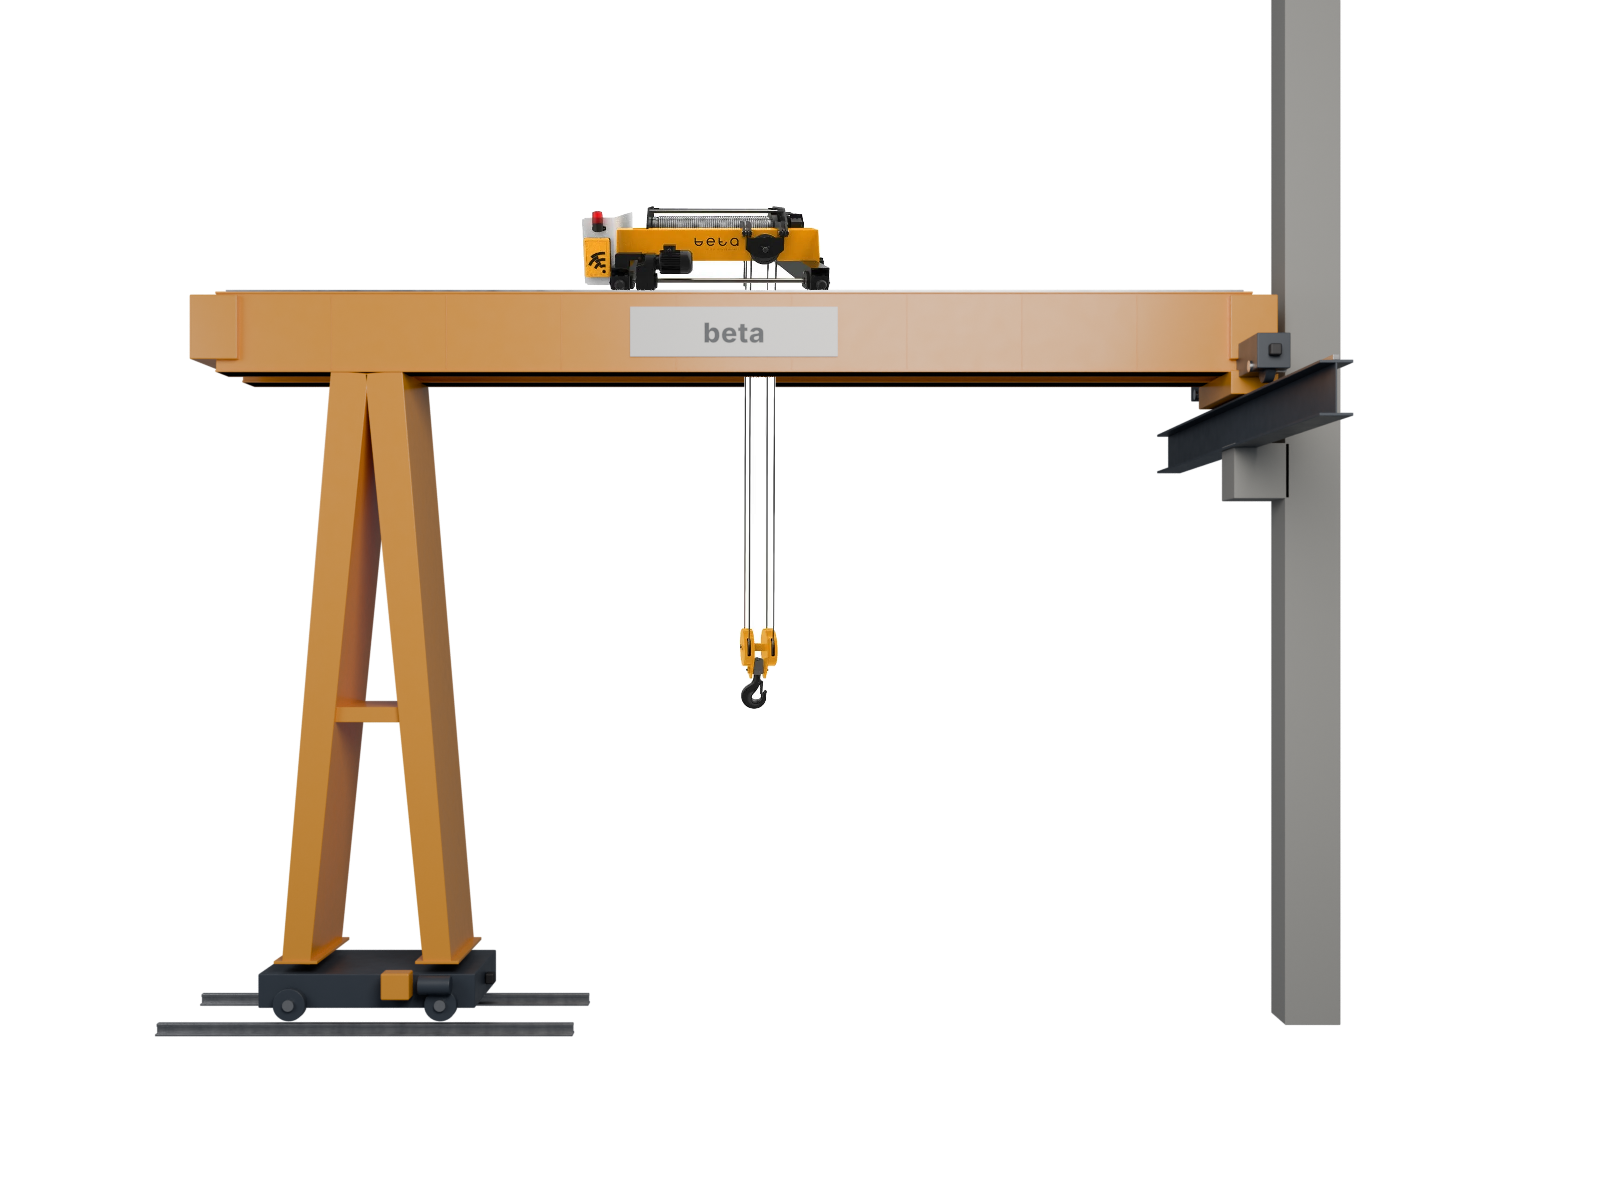
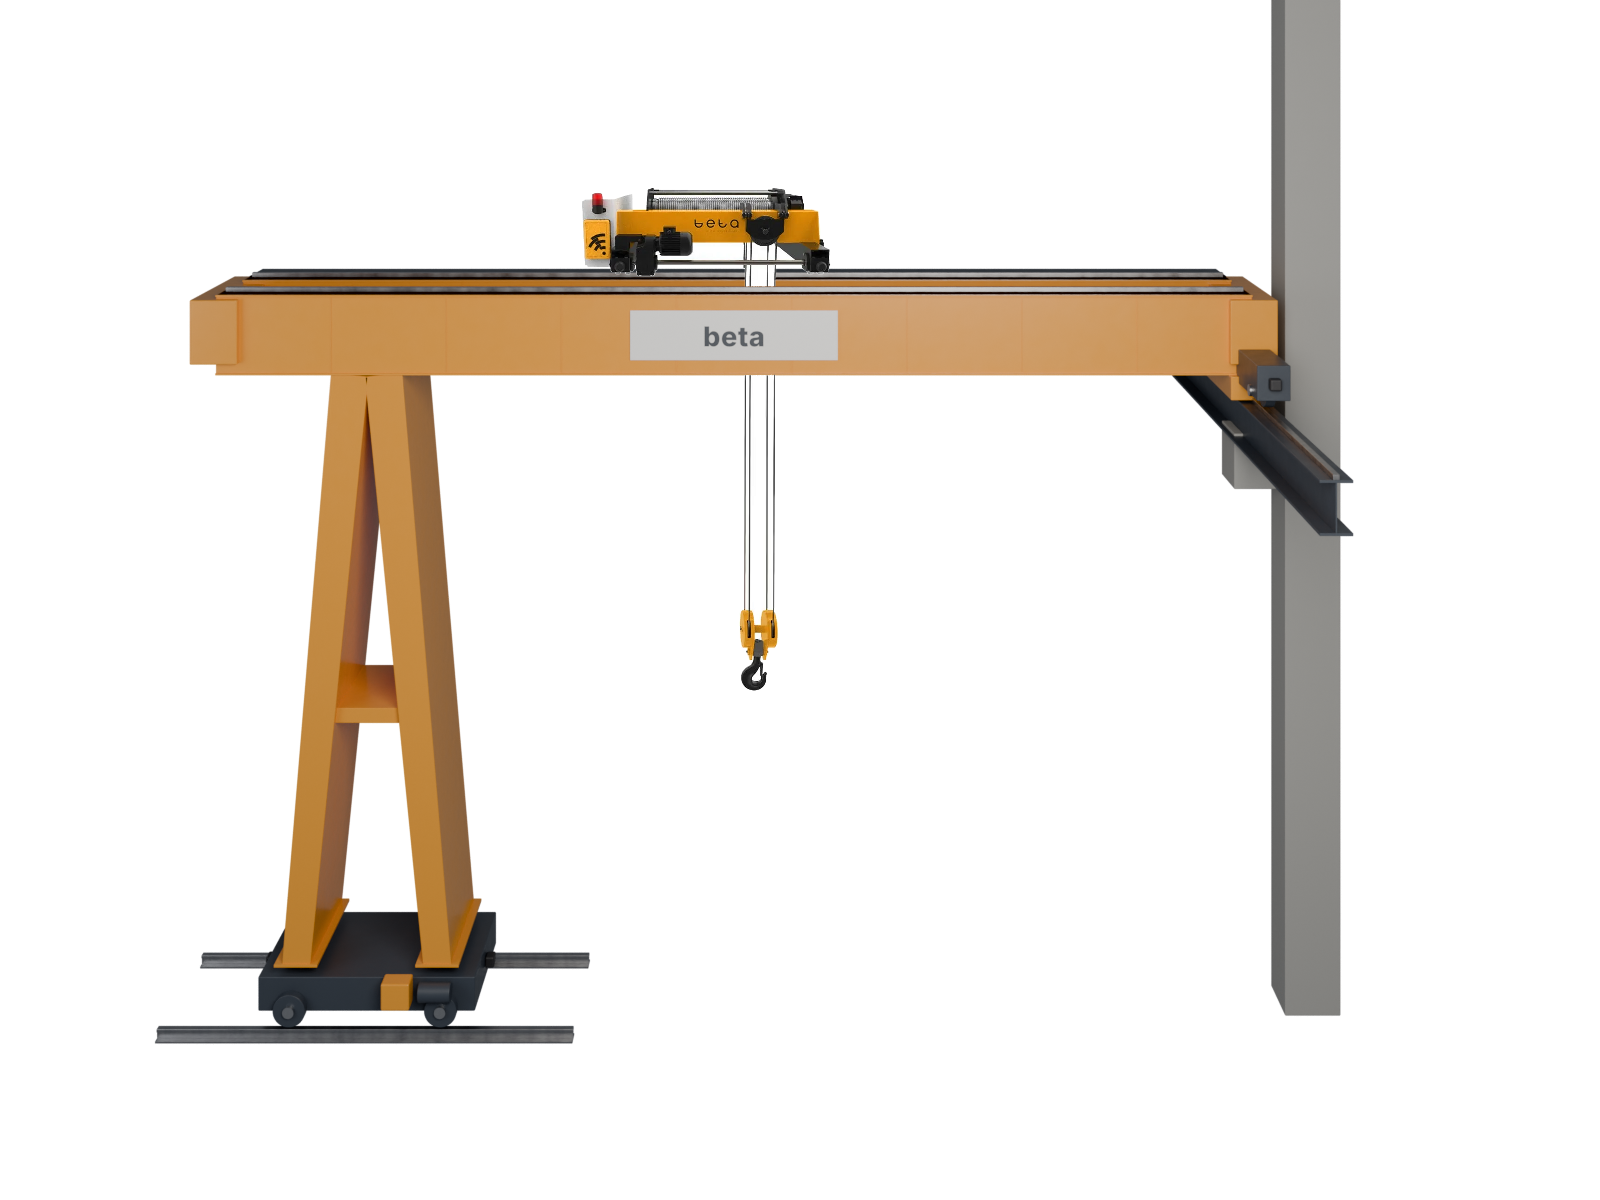
Sahne açıları vinç fotoğraflarının çekim açısına eşitlendi
Claude-Session: https://claude.ai/code/session_01BwJWWo6Yo4AefWjfCSnerb

diff --git a/kaynak/render_vincler.py b/kaynak/render_vincler.py
@@ -576,18 +576,19 @@ def ortam(M, **kw):
 
 
 def foto_vinc(dosya, nesne, nokta, yukseklik, capa=0.5, dikey=0.0, arkasinda=(), halat=None,
-              eksen=(1, 0, 0)):
+              eksen=None):
     """Gerçek ürün fotoğrafını sahnedeki bir düzleme perspektifli olarak yerleştir.
 
-    Fotoğraf, `nesne` yerel koordinatlarında `eksen` (yatay) ve Z (düşey) doğrultularının
-    oluşturduğu düzleme gerçek ölçüsünde (yükseklik m) oturtulur; dört köşesi kameraya
-    izdüşürülüp homografi ile bükülür.
+    Fotoğraf gerçek ölçüsünde (yükseklik m) bir düzleme oturtulur; dört köşesi kameraya
+    izdüşürülüp homografi ile bükülür. eksen=None: düzlem kameraya diktir (fotoğraf kendi
+    perspektifini taşır; sahne kamerası fotoğrafın çekim açısına göre ayarlanır).
+    eksen verilirse düzlem `nesne` yerel `eksen` (yatay) ve Z doğrultularındadır.
     nokta: fotoğrafın yatayda `capa`, düşeyde `dikey` oranına (0 = üst kenar) denk gelen nokta,
     arkasinda: fotoğrafın önünde kalacak nesnelerin ad önekleri (ör. ön kiriş),
     halat: (ust_oran, alt_oran, kanca_z) - yalnız halat bandını uzatıp kancayı kanca_z'ye indirir.
     """
     FOTOLAR.append((os.path.join(FOTO_KLASOR, dosya), nesne, Vector(nokta), yukseklik, capa, dikey,
-                    tuple(arkasinda), halat, Vector(eksen).normalized()))
+                    tuple(arkasinda), halat, None if eksen is None else Vector(eksen).normalized()))
 
 
 def _homografi(hedef, kaynak):
@@ -659,10 +660,17 @@ def fotolari_ekle(cikti):
             yuk = yuk + ek_m
             dikey = ust_m / yuk
         mw = nesne.matrix_world
-        z = Vector((0, 0, 1))
+        A = mw @ nokta
+        if eksen is None:
+            cm = sc.camera.matrix_world.to_3x3()
+            eksen = (cm @ Vector((1, 0, 0))).normalized()
+            z = (cm @ Vector((0, 1, 0))).normalized()
+        else:
+            eksen = (mw.to_3x3() @ eksen).normalized()
+            z = Vector((0, 0, 1))
 
         def kose(fx, fy, u=eksen):
-            return ekran(mw @ (nokta + u * ((fx - capa) * gen) + z * ((dikey - fy) * yuk)))
+            return ekran(A + u * ((fx - capa) * gen) + z * ((dikey - fy) * yuk))
 
         # fotoğraf ayna görüntüsü olmasın: sol kenar ekranda solda kalsın
         if kose(0, dikey)[0] > kose(1, dikey)[0]:
@@ -694,7 +702,7 @@ def dunya(guc=0.6):
     bg.inputs["Strength"].default_value = guc
 
 
-def kamera(loc, hedef, lens=35, dof=None):
+def kamera(loc, hedef, lens=35, dof=None, kaydir=False):
     cd = bpy.data.cameras.new("kamera")
     cd.lens = lens
     cd.sensor_width = 36
@@ -702,6 +710,11 @@ def kamera(loc, hedef, lens=35, dof=None):
     bpy.context.scene.collection.objects.link(co)
     co.location = loc
     d = Vector(hedef) - Vector(loc)
+    if kaydir:
+        # mimari kamera: yatay bakış + mercek kaydırma, dikeyler dik kalır (ürün fotoğrafları gibi)
+        yatay = Vector((d.x, d.y, 0))
+        cd.shift_y = d.z / yatay.length * lens / cd.sensor_width
+        d = yatay
     co.rotation_euler = d.to_track_quat("-Z", "Y").to_euler()
     bpy.context.scene.camera = co
     if dof:
@@ -777,7 +790,7 @@ def sahne_duvar_pergel(M):
     beton = boya("beton_kolon", (0.36, 0.36, 0.345, 1), rough=0.85, var=0.1, bump=0.4)
     kutu("bina_kolon", (0.6, 0.6, 12.0), (-0.3, 0, 6.0), beton, bevel=0.01)
     # dönen grup (mafsal ekseni x=0.12)
-    g = bos("pergel", (0.12, 0, 0), (0, 0, 0 if YAN else math.radians(18)))
+    g = bos("pergel", (0.12, 0, 0), (0, 0, math.radians(20 if YAN else 18)))  # zincirli vinç fotoğrafı ~20° soldan
     # duvar konsolu (sabit)
     kutu("konsol_plaka", (0.03, 0.42, 2.0), (0.015, 0, 3.4), M["antrasit"], bevel=0.004)
     for z in (4.15, 2.75):
@@ -804,7 +817,7 @@ def sahne_duvar_pergel(M):
     if not BEYAZ:
         palet(M, (4.6, 0.1, 0), 0.35)
     if YAN:
-        kamera((2.3, -10.0, 2.7), (2.3, 0, 2.7), lens=48)
+        kamera((2.0, -10.0, 3.9), (2.0, 0, 2.65), lens=46, kaydir=True)
     else:
         kamera((4.6, -5.6, 2.6), (2.1, 0.3, 3.05), lens=34, dof=9)
     anahtar_isik((4, -9, 8), (2, 0, 2), 1800, boyut=6)
@@ -830,7 +843,7 @@ def sahne_kolon_pergel(M):
     silindir("kolon", 0.17, H, (0, 0, H / 2 + 0.06), M["gri"], seg=64)
     silindir("kolon_bilezik", 0.20, 0.16, (0, 0, H + 0.06), M["antrasit"], seg=64, bevel=0.01)
     # dönen grup
-    g = bos("pergel", (0, 0, 0), (0, 0, 0 if YAN else math.radians(15)))
+    g = bos("pergel", (0, 0, 0), (0, 0, math.radians(45 if YAN else 15)))  # kompakt vinç fotoğrafı ~45° soldan
     zb = H + 0.48
     silindir("baslik", 0.215, 0.36, (0, 0, H + 0.30), M["antrasit"], g, seg=64, bevel=0.01)
     silindir("baslik_serit", 0.217, 0.05, (0, 0, H + 0.42), M["turuncu"], g, seg=64)
@@ -847,7 +860,7 @@ def sahne_kolon_pergel(M):
     if not BEYAZ:
         palet(M, (4.4, -0.6, 0), 0.3)
     if YAN:
-        kamera((2.2, -10.0, 2.55), (2.2, 0, 2.55), lens=42)
+        kamera((1.6, -10.0, 4.3), (1.6, 0, 2.45), lens=42, kaydir=True)
     else:
         kamera((4.4, -6.6, 2.4), (2.0, 0.3, 2.65), lens=32, dof=9)
     anahtar_isik((3, -9, 8), (1.5, 0, 2), 1800, boyut=6)
@@ -922,7 +935,7 @@ def portal_govde(M, g, span, z_ust, h, cift_ayak=True, ray_ust=0.0, kanca_z=1.6,
         # Beta halatlı vinç arabası fotoğrafı: kiriş raylarının üstünde, halatlar ön kirişin arkasında
         dosya, yuk, capa, dikey = foto
         foto_vinc(dosya, g, (span * 0.47, 0, z_ust + 0.05), yuk, capa=capa, dikey=dikey,
-                  arkasinda=("kiris_on",), halat=(0.45, 0.60, kanca_z), eksen=(1, 0, 0))
+                  arkasinda=("kiris_on",), halat=(0.45, 0.60, kanca_z))
     else:
         halatli_araba("araba", span * 0.47, z_ust + 0.05, yk, M, g, kanca_z=kanca_z)
 
@@ -950,7 +963,7 @@ def sahne_portal(M):
     if not BEYAZ:
         yuk_kasa(M, (span * 0.47 - 0.15, -0.0, 0.0))
     if YAN:
-        kamera((span / 2, -19.5, 4.1), (span / 2, 0, 4.1), lens=42)
+        kamera((span / 2, -19.5, 10.3), (span / 2, 0, 4.0), lens=42, kaydir=True)  # araba fotoğrafı ~9° yukarıdan
     else:
         kamera((13.4, -11.0, 1.8), (5.4, 0.0, 3.7), lens=24, dof=12)
     anahtar_isik((4, -12, 10), (5, 0, 3), 3500, boyut=8)
@@ -986,7 +999,7 @@ def sahne_yari_portal(M):
     if not BEYAZ:
         yuk_kasa(M, (span * 0.47 - 0.15, 0.0, 0.0))
     if YAN:
-        kamera((6.2, -20.5, 4.6), (6.2, 0, 4.6), lens=42)
+        kamera((6.2, -20.5, 11.3), (6.2, 0, 4.4), lens=42, kaydir=True)
     else:
         kamera((-2.2, -11.6, 1.8), (6.0, 0.4, 4.3), lens=24, dof=12)
     anahtar_isik((8, -12, 10), (6, 0, 3), 3500, boyut=8)

diff --git a/README.md b/README.md
@@ -5,8 +5,10 @@ ile fotoğraf gerçekliğinde, gölgesiz düz beyaz arka plan üzerinde ve oriji
 gibi tam yandan görünüşle render edildi (eski 3/4 açı için: GORUNUS=capraz). Marka renkleri ve "beta" logosu korundu.
 
 Vinçler modellenmedi; Beta'nın gerçek ürün fotoğrafları (`kaynak/vinc_foto/`,
-beyaz zemini temizlenmiş) sahnedeki gerçek ölçülü bir düzleme oturtulup, köşeleri kameraya
-izdüşürülerek homografi ile perspektifli bükülüp eklendi (bom / kirişle aynı kaçış):
+beyaz zemini temizlenmiş) gerçek ölçüsünde eklendi. Sahne kamerası her fotoğrafın çekim
+açısına göre ayarlandı: pergel bomu fotoğraftaki vinçle aynı açıya döndürüldü (duvar tipi
+~20°, kolon tipi ~45°), portallerde kamera araba fotoğrafı gibi ~9° yukarıdan bakar; dikeyler
+mercek kaydırmayla dik tutuldu. Arabaların tekerlekleri bom alt flanşına / kiriş rayına oturur:
 
 - Duvar tipi pergel → 2 ton zincirli vinç (`zincirli_vinc_2ton.png`)
 - Kolon tipi pergel → kompakt vinç (`kompakt_vinc.png`)
